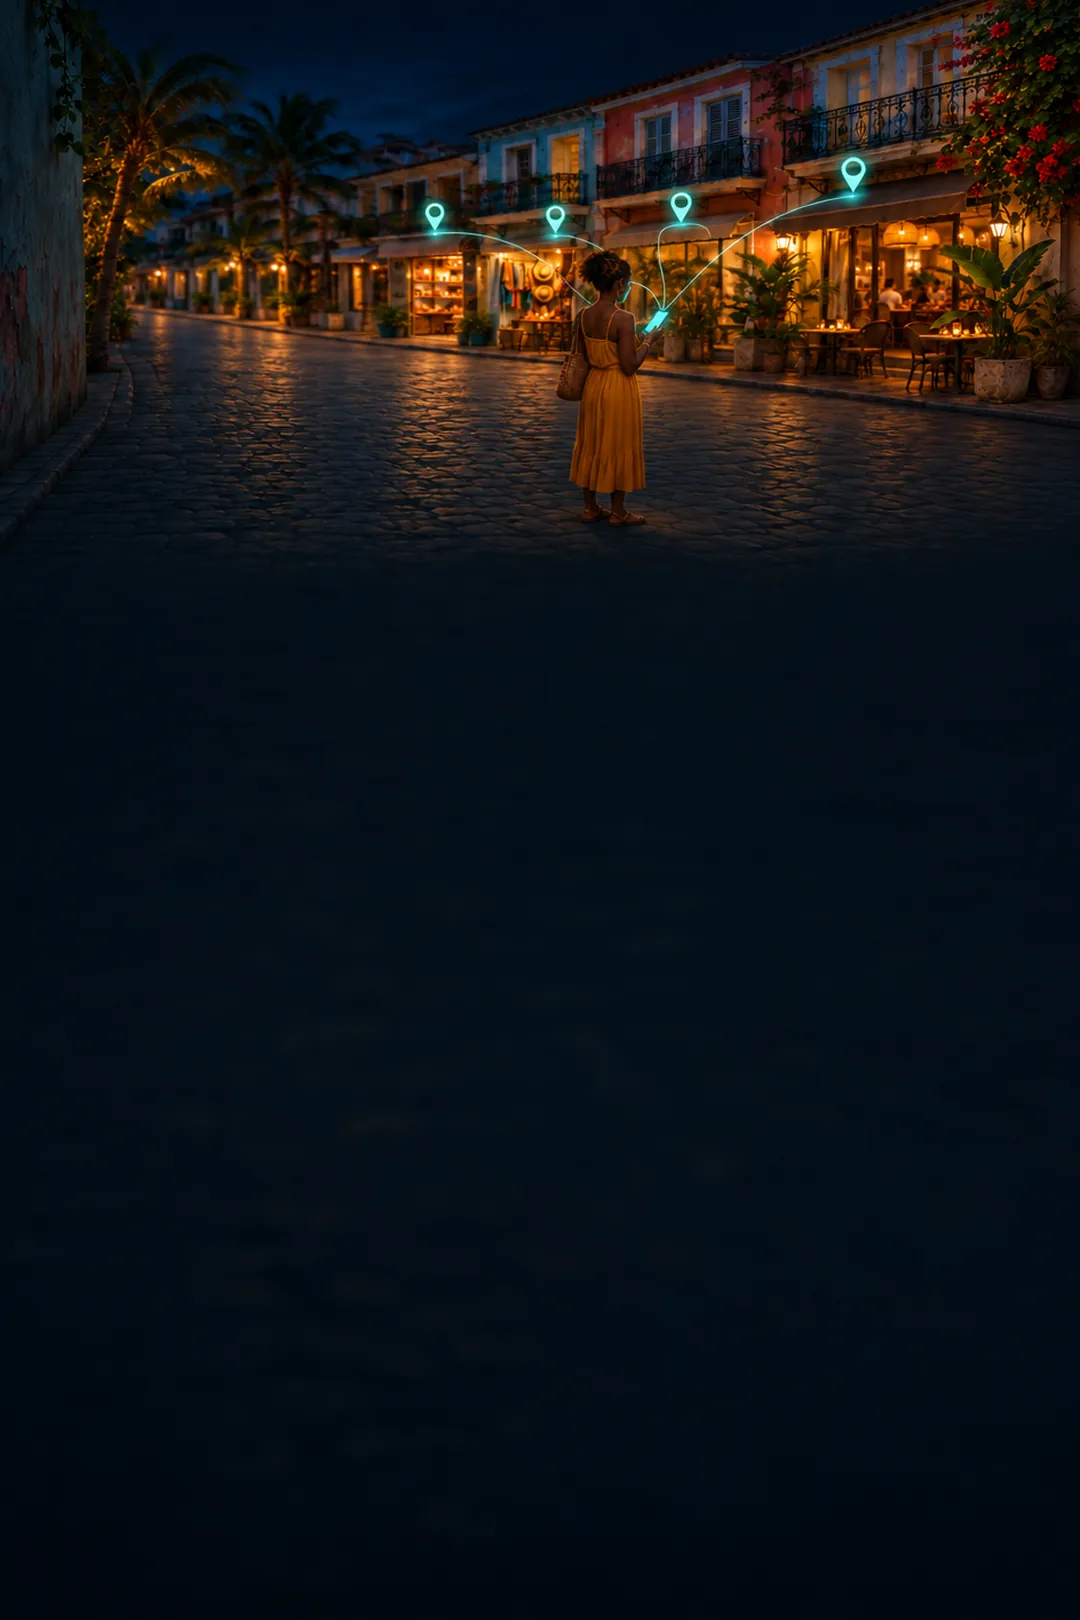
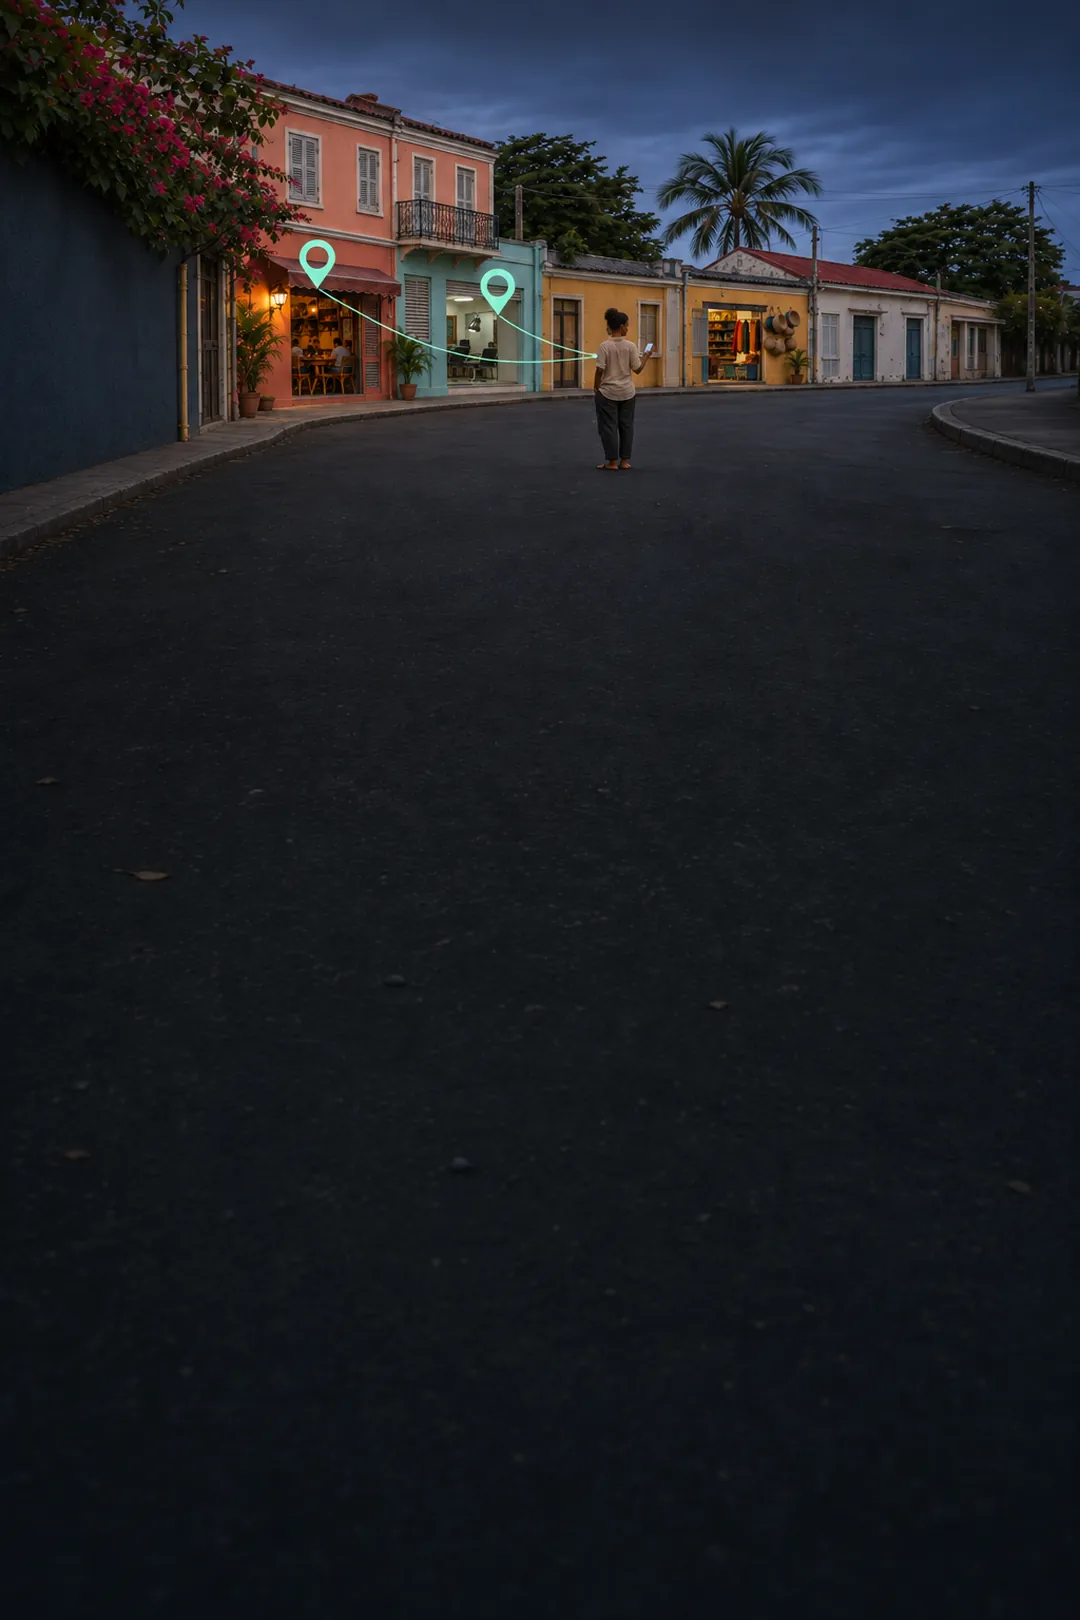
Remplace les images de l'encart présence digitale
Nouvelle scène au crépuscule, plus naturelle. Sur ordinateur, le voile
du côté du texte est prolongé (les façades claires passaient sous le
chapô) et la bulle descend sur la chaussée, à côté de la passante au lieu
de la couvrir.

diff --git a/src/home.css b/src/home.css
@@ -2935,19 +2935,23 @@
   }
   .vision__img { object-position: 70% 50%; }
   .vision__card::after {
+    /* Voile plus long que la stricte colonne de texte : les façades claires
+       de l'image passent sous le chapô et le rendraient difficile à lire. */
     background: linear-gradient(
       90deg,
       rgba(6, 11, 19, 0.94) 0%,
-      rgba(6, 11, 19, 0.78) 38%,
-      rgba(6, 11, 19, 0.15) 68%,
+      rgba(6, 11, 19, 0.86) 34%,
+      rgba(6, 11, 19, 0.55) 52%,
+      rgba(6, 11, 19, 0.1) 72%,
       transparent 100%
     );
   }
-  /* Coin bas droit, sur la terrasse du café : à côté de la passante, sans
-     couvrir la scène. */
+  /* Sur la chaussée vide, entre le texte et la passante : ni sur elle, ni
+     sur le titre. */
   .vision__ask {
     top: auto;
-    right: 1.75rem;
+    right: auto;
+    left: 41%;
     bottom: 1.75rem;
     max-width: 16rem;
     font-size: 0.9rem;
